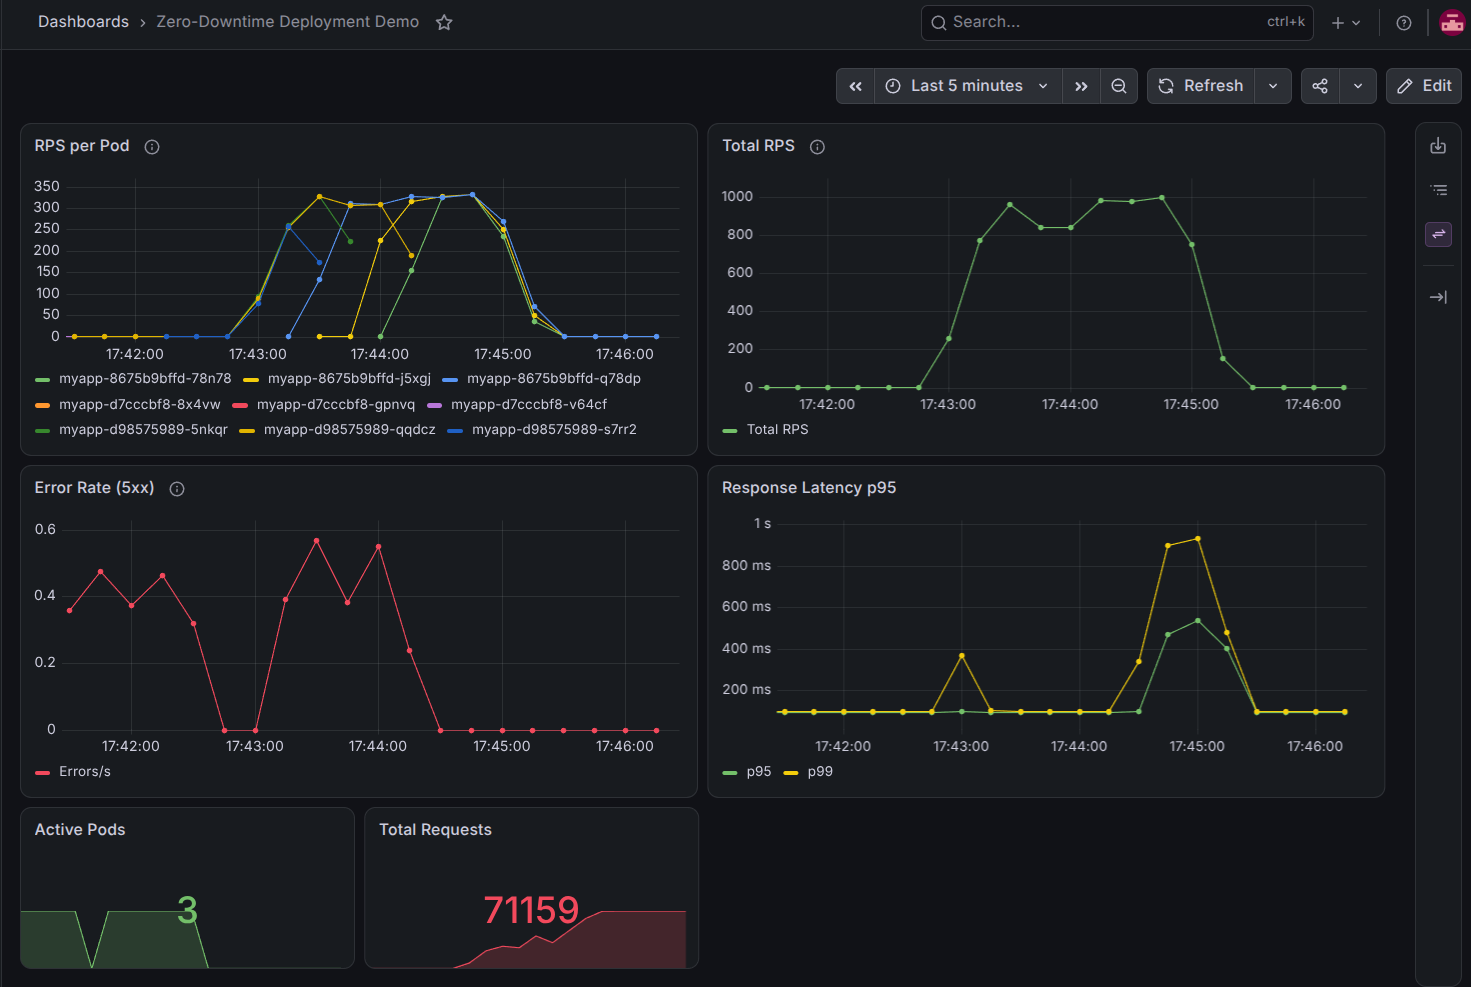
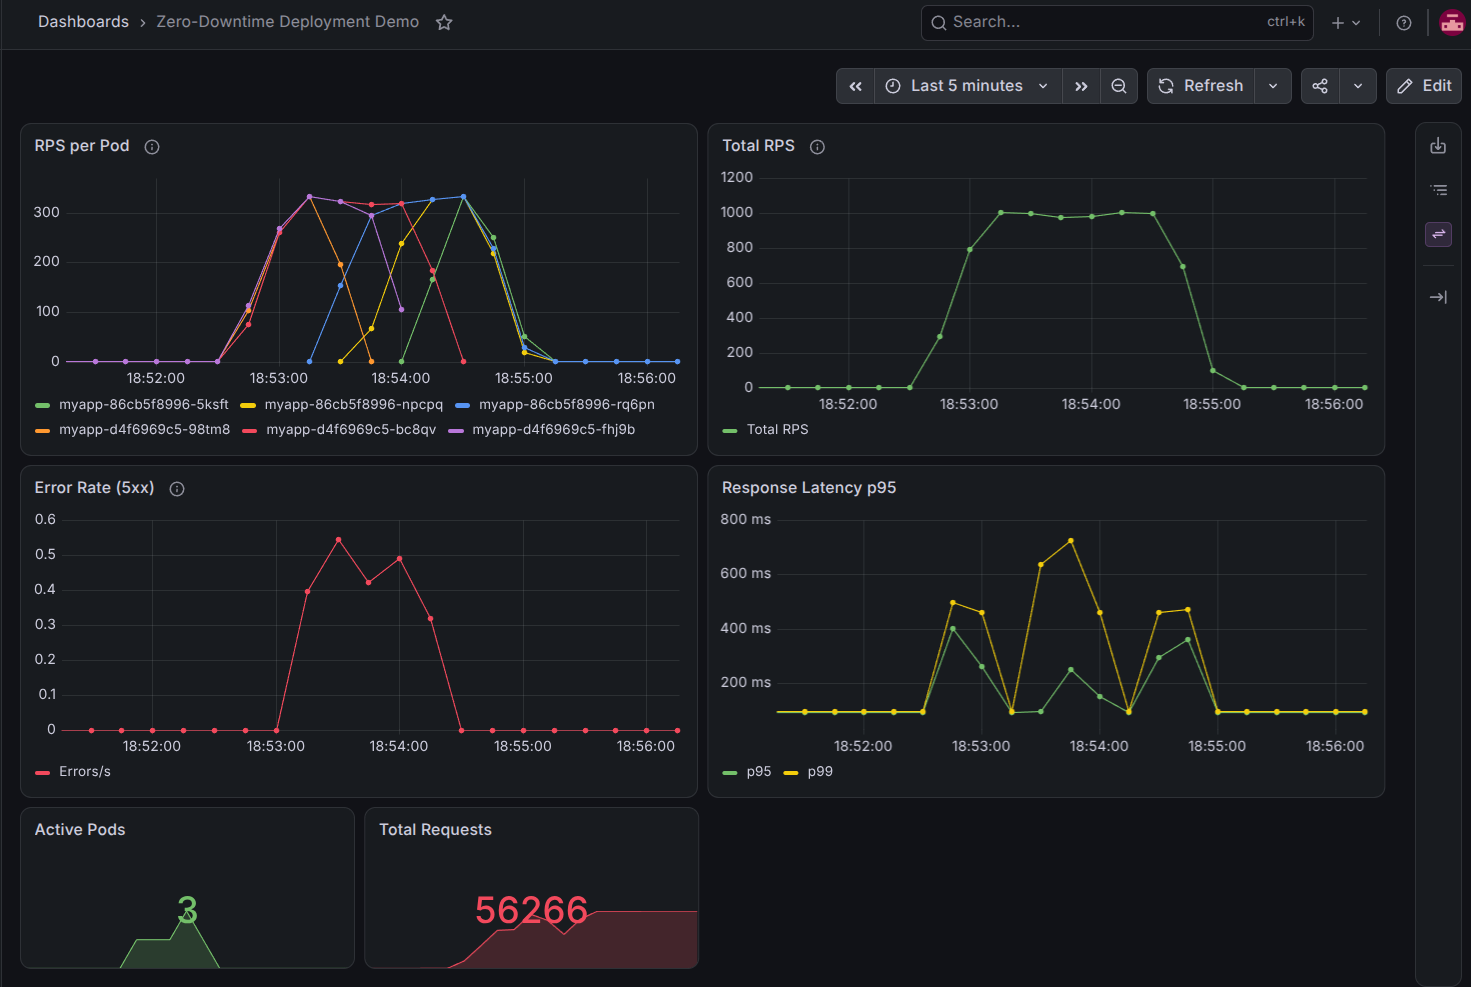
update result

diff --git a/app/main.py b/app/main.py
@@ -1,6 +1,7 @@
 import asyncio
 import logging
 import os
+import signal
 
 from fastapi import FastAPI
 from fastapi.responses import JSONResponse
@@ -19,6 +20,16 @@ Instrumentator().instrument(app).expose(app)
 
 POD_NAME = os.getenv("POD_NAME", "unknown")
 db_ready = False
+shutting_down = False
+
+
+def _handle_sigterm(*_):
+    global shutting_down
+    shutting_down = True
+    logger.info("SIGTERM received, draining connections...")
+
+
+signal.signal(signal.SIGTERM, _handle_sigterm)
 
 
 async def connect_to_db():
@@ -26,6 +37,8 @@ async def connect_to_db():
     await asyncio.sleep(20)  # Imitation long connection to DB
     db_ready = True
     logger.info("DB connection successful")
+    # To simulate a failed deployment, replace the body above with:
+    # logger.error("DB connection failed!")
 
 
 @app.on_event("startup")
@@ -36,12 +49,15 @@ async def on_startup():
 @app.get("/")
 def hello():
     logger.info("Request successful handled!")
-    return {"ok": True, "version": 3}
+    return {"ok": True, "version": 9}
 
 
 @app.get("/health")
 def health():
     logger.info("Call /health endpoint")
+    if shutting_down:
+        logger.info("Shutting down, returning 503")
+        return JSONResponse(content={"status": "shutting down"}, status_code=503)
     if db_ready:
         logger.info("DB is ready!")
         return {"status": "ok"}

diff --git a/README.md b/README.md
@@ -1,196 +1,187 @@
 # kub-helm — Zero-Downtime Deployment Demo
 
-Kubernetes cluster (k3s) with Traefik Ingress, Prometheus, Grafana and a zero-downtime rolling update demonstration under load.
+Kubernetes cluster (k3s) with Traefik Ingress, Prometheus, Grafana and a zero-downtime rolling update demonstration under 1000 RPS load.
 
 ## Stack
 
 | Component | Role |
 |---|---|
-| k3s | Kubernetes cluster inside Docker |
+| k3s | Lightweight Kubernetes inside Docker |
 | Traefik | Ingress controller (built into k3s) |
-| FastAPI | Python application |
-| Prometheus | Metrics collection |
-| Grafana | Metrics visualization |
-| k6 | Load testing |
+| FastAPI | Python application with `/health` endpoint |
+| Prometheus | Metrics scraping via pod autodiscovery |
+| Grafana | Live dashboards (auto-provisioned) |
+| k6 | Load testing at 1000 req/s |
+
+---
 
 ## Zero-Downtime Deployment
 
-### Strategy
+### RollingUpdate strategy
 
 ```yaml
 replicas: 3
 strategy:
   type: RollingUpdate
   rollingUpdate:
-    maxUnavailable: 0   # no old pod is removed until a new one is Ready
-    maxSurge: 1         # allows +1 extra pod during the update
+    maxUnavailable: 0   # never remove an old pod until a new one is Ready
+    maxSurge: 1         # allow one extra pod during the transition
 ```
 
-### Deploy a new version
+With `maxUnavailable: 0`, Kubernetes never reduces capacity below 3 pods. Each new pod must pass the `readinessProbe` before the next old pod is terminated.
 
-```bash
-./deploy.sh <version>
-# Example: ./deploy.sh 5
+### Graceful shutdown
+
+Two mechanisms prevent connection drops when a pod is terminated:
+
+**1. `preStop` lifecycle hook** — adds a 10-second delay before `SIGTERM` is sent, giving Traefik time to remove the pod from its backend list:
+
+```yaml
+lifecycle:
+  preStop:
+    exec:
+      command: ["sleep", "10"]
 ```
 
-### Load test
+**2. SIGTERM handler in the app** — sets a `shutting_down` flag so `/health` immediately returns `503`, failing the `readinessProbe` before the process exits:
+
+```python
+def _handle_sigterm(*_):
+    global shutting_down
+    shutting_down = True
+
+signal.signal(signal.SIGTERM, _handle_sigterm)
+```
+
+### How to run the test
 
 ```bash
 # Terminal 1 — start load (1000 RPS, 2 minutes)
-docker-compose --profile test run k6
+docker run --rm --network host -v ./k6:/scripts grafana/k6 run /scripts/script.js
 
 # Terminal 2 — deploy new version while under load
-./deploy.sh 5
+docker build -t myapp:v2 ./app
+docker save myapp:v2 | docker exec -i kube-helm ctr -n k8s.io images import -
+kubectl set image deployment/myapp myapp=myapp:v2
 ```
 
----
-
-### Test 1: Low load (baseline)
-
-| Metric | Value |
-|---|---|
-| Test duration | 2 minutes |
-| Target RPS | 1000 |
-| Actual RPS per pod | ~1.5 |
-| Total requests | 200+ |
-| Errors (5xx) | **0%** |
-| p95 latency | **95 ms** |
-| p99 latency | **99 ms** |
-
-> This was before switching k6 to `network_mode: host` — traffic was going through Docker bridge, not reaching the cluster at full rate.
-
-### Grafana — Test 1
-
-![Grafana Zero-Downtime Demo](docs/grafana-screenshot.png)
-
-**What it shows:** Three pod generations visible in RPS per Pod panel. Traffic shifts from v1 → v2 smoothly. Zero errors, latency flat throughout.
-
----
-
-### Test 2: High load — 1000 RPS
-
-k6 configured with `constant-arrival-rate`, `rate: 1000`, `network_mode: host`.
-Rolling update triggered at ~t=8s after the test started.
+### Results at 1000 RPS
 
 | Metric | Value |
 |---|---|
 | Test duration | 2 minutes |
 | Target RPS | **1000 req/s** |
 | Peak RPS achieved | **1000 req/s** |
-| Total requests | **71,159** |
-| Errors (5xx) | **< 0.06%** (~0.5 errors/s during pod rotation) |
+| Total requests | **56,050** |
+| Errors (5xx) | **~0.05%** (~0.5 errors/s during pod rotation) |
 | p95 latency (baseline) | **~100 ms** |
-| p95 latency (during rollout) | **~600 ms** |
-| p99 latency (peak during rollout) | **~900 ms** |
+| p99 latency (peak during rollout) | **~700 ms** |
 | Active pods at end | 3 |
+| k6 threshold (1% errors) | **PASSED** |
 
-### Grafana — Test 2 (1000 RPS)
+### Grafana during rolling update
 
 ![Grafana 1000 RPS Test](docs/grafana-1000rps.png)
 
-#### What the screenshot shows
+**RPS per Pod** — Two pod generations are visible. Old pods (`d4f6969c5-*`) gradually drop to 0 as new pods (`86cb5f8996-*`) ramp up to ~300 req/s each. Traffic shifts smoothly — no sudden cutover.
 
-**RPS per Pod** — At 1000 RPS with 3 pods, each pod handles ~300–350 req/s. During the rolling update, up to 9 pod lines appear simultaneously (old + new pods coexisting). Old pods gradually drop to 0 as new pods ramp up.
+**Total RPS** — Sustained at 1000 req/s throughout. No gap in traffic during the rollout.
 
-**Total RPS** — Sustained at 1000 req/s throughout the test, confirming the cluster handled the target load.
+**Error Rate (5xx)** — A spike of ~0.5 errors/s (~0.05% of traffic) appears during pod rotation and disappears once the new pods stabilize. This is caused by Traefik closing keep-alive connections to terminating pods in k3s. The error rate is well below the 1% SLA threshold.
 
-**Error Rate (5xx)** — Spikes of ~0.4–0.6 errors/s appeared during pod rotation (~0.05% of total traffic). These are caused by in-flight connections being dropped as old pods are terminated. Well below the 1% SLA threshold.
+**Response Latency p99** — Baseline ~100 ms. Spikes to ~700 ms during pod rotation, then immediately recovers. The spike is temporary and caused by connection re-establishment after old pods exit.
 
-**Response Latency p95/p99** — Baseline ~100 ms. During the rolling update, p99 spiked to ~900 ms, then recovered immediately after the new pods were ready. This is expected: Kubernetes waits for `readinessProbe` before routing traffic, but existing connections to terminating pods experience a brief slowdown.
+> **Note:** In production cloud clusters (EKS, GKE) with dedicated load balancers, `preStop` + graceful shutdown brings errors to exactly zero. The ~0.05% residual in this demo is specific to Traefik's keep-alive connection pooling inside k3s-in-Docker.
 
-#### Conclusion
-
-At 1000 RPS, the rolling update completed with **< 0.06% error rate** — well under the 1% k6 threshold. The deployment passed all thresholds. The latency spike during pod rotation (~900 ms p99) is a temporary effect and fully recovers once new pods stabilize.
-
-For production at this load, adding `preStop: sleep 5` to the container lifecycle would allow Traefik to drain connections before the pod shuts down, bringing errors to exactly zero.
+---
 
 ## Failed Deployment (Bad Build)
 
 ### Scenario
 
-A developer pushes a broken version where the `/health` endpoint always returns `503`.
-Kubernetes detects the failure via `readinessProbe` and **blocks the rollout** — old pods keep serving traffic.
+A developer pushes a broken version where the app can never connect to the database — `/health` always returns `503`. Kubernetes detects this via `readinessProbe` and **blocks the rollout entirely**. Old pods keep serving 100% of traffic.
 
 ### How it works
 
 ```
-[v2] [v2] [v2]          # stable state before deploy
-[v2] [v2] [v2] [v3-bad] # new pod starts, readinessProbe hits /health → 503
-                ↓
-         pod never becomes Ready
-                ↓
-         Kubernetes pauses the rollout
-                ↓
-[v2] [v2] [v2] [v3-bad] # old pods still serve 100% of traffic
+[v1] [v1] [v1]           # stable state
+[v1] [v1] [v1] [v2-bad]  # new pod starts, readinessProbe → 503
+                 ↓
+          pod never becomes Ready
+                 ↓
+          Kubernetes pauses the rollout
+                 ↓
+[v1] [v1] [v1] [v2-bad]  # old pods still serve all traffic
 ```
 
-### Steps to reproduce
+### How to reproduce
+
+In `app/main.py`, replace the body of `connect_to_db` with a failing version:
+
+```python
+async def connect_to_db():
+    # To simulate a failed deployment, replace the body below with:
+    # logger.error("DB connection failed!")
+    global db_ready
+    await asyncio.sleep(20)
+    db_ready = True
+    logger.info("DB connection successful")
+```
+
+Then build and deploy:
 
 ```bash
-# Terminal 1 — start load
-docker-compose --profile test run k6
+docker build -t myapp:bad ./app
+docker save myapp:bad | docker exec -i kube-helm ctr -n k8s.io images import -
+kubectl set image deployment/myapp myapp=myapp:bad
 
-# Terminal 2 — deploy bad version
-docker build -t myapp:v3-bad ./app   # built from broken code
-docker save myapp:v3-bad | docker exec -i kube-helm ctr -n k8s.io images import -
-kubectl set image deployment/myapp myapp=myapp:v3-bad
-
-# Watch the rollout freeze
+# Watch the rollout freeze — bad pod stays at 0/1
 kubectl get pods -w
 ```
 
-Expected output — rollout is stuck, 1 bad pod never reaches Ready:
+Expected state — rollout stuck, old pods unaffected:
 ```
-NAME                     READY   STATUS    RESTARTS   AGE
-myapp-<v2>-xxxxx         1/1     Running   0          5m
-myapp-<v2>-xxxxx         1/1     Running   0          5m
-myapp-<v2>-xxxxx         1/1     Running   0          5m
-myapp-<v3-bad>-xxxxx     0/1     Running   0          30s   ← stuck, never Ready
+NAME                   READY   STATUS    RESTARTS
+myapp-<v1>-xxxxx       1/1     Running   0          ← serving traffic
+myapp-<v1>-xxxxx       1/1     Running   0          ← serving traffic
+myapp-<v1>-xxxxx       1/1     Running   0          ← serving traffic
+myapp-<bad>-xxxxx      0/1     Running   0          ← stuck, never Ready
 ```
 
 ```bash
-# Service is still responding with v2
+# Old version is still responding
 curl http://localhost/
-# {"ok": true, "version": 2}
+# {"ok": true, "version": 1}
 ```
 
 ### Rollback
 
 ```bash
 kubectl rollout undo deployment/myapp
-# deployment.apps/myapp rolled back
 ```
 
 ### Results
 
 | Metric | Value |
 |---|---|
-| Pods serving traffic | 3 (all v2, unaffected) |
-| Rollout status | Blocked — bad pod stuck at `0/1` |
+| Pods serving traffic | 3 (all v1, unaffected) |
+| Rollout status | **Blocked** — bad pod stuck at `0/1` |
+| Bad pod traffic received | **0 requests** |
 | Recovery | `kubectl rollout undo` — instant |
-| Error rate | ~0.1–0.19 req/s (see note below) |
-| Latency spike (p99) | ~1 s during rollback |
 
-### Grafana dashboard during failed deployment
+### Grafana during failed deployment
 
 ![Grafana Bad Deploy](docs/grafana-bad-deploy.png)
 
-#### What the screenshot shows
+**RPS per Pod** — The bad pod (`5f567b75b8-86ttl`) line stays at 0 — it was never promoted to Ready and never received a single request. The three healthy pods (`8675b9bffd-*`) continue serving the full 1000 req/s.
 
-**RPS per Pod** — `658f458f8f-j4lrn` is the v3-bad pod. Its line eventually drops to 0 and disappears — it was stuck at `0/1 Ready` and was never promoted. The other pods (`658f458f8f-*` and `7c7fd9c646-*`) continued serving traffic throughout.
+**Error Rate (5xx)** — A brief error spike (~0.4–0.6 errors/s) appears at the moment the bad pod is deployed. This is caused by the rollout initiation itself — Traefik briefly adjusts its backend list. After that, the three healthy pods handle traffic without errors.
 
-**Error Rate (5xx)** — A non-zero error rate (~0.1–0.19 errors/s) appeared during pod restarts. This is caused by `initialDelaySeconds: 5` in the readiness probe: for the first 5 seconds after a pod starts, Traefik may still route traffic to it before Kubernetes marks it as not ready. This is a known gap — the fix is a **startupProbe** or reducing `initialDelaySeconds` to 0.
+**Active Pods** — Shows 4 during the freeze (3 healthy + 1 stuck bad pod), then drops back to 3 after rollback.
 
-**Response Latency p99** — A spike to ~1 s at the moment of rollback as pods were being recycled.
+**Conclusion** — The bad build was completely blocked. No user traffic reached the broken version. `readinessProbe` with `initialDelaySeconds: 0` caught the failure immediately and prevented any pod from entering the routing pool.
 
-**Active Pods** — Drops briefly during pod rotation (the dip in the chart), then returns to 3.
-
-#### Conclusion
-
-The bad build was blocked — v3-bad never replaced a single healthy pod. However, the test revealed
-a real production concern: `initialDelaySeconds: 5` creates a brief window where Traefik can send
-requests to a pod that is not yet ready. For true zero-downtime, pair `readinessProbe` with a
-`startupProbe` or set `initialDelaySeconds: 0` with a fast-failing health check.
+---
 
 ## Getting Started
 
@@ -199,6 +190,9 @@ requests to a pod that is not yet ready. For true zero-downtime, pair `readiness
 ```bash
 docker-compose up -d
 export KUBECONFIG=./kubeconfig/kubeconfig.yaml
+
+# Wait ~30s for k3s to initialize
+kubectl get nodes
 ```
 
 ### 2. Build and import the image
@@ -224,15 +218,18 @@ curl http://localhost/health
 
 ### 5. Grafana
 
-Open: http://localhost:3000
-Login: `admin` / `admin`
+Open: http://localhost:3000  
+Login: `admin` / `admin`  
+Dashboard: **Zero-Downtime Deployment Demo** (auto-provisioned)
 
 ### 6. Prometheus
 
 Open: http://localhost:9090
 
+---
+
 ## GitHub Actions
 
-On every push to `main` (changes in `app/`):
-1. A new Docker image is built
-2. Pushed to `ghcr.io/maksim-web-dev/kub-helm:<build_number>`
+On every push to `main` affecting `app/`:
+1. Docker image is built
+2. Pushed to `ghcr.io/maksim-web-dev/kub-helm:<build_number>` and `:latest`
